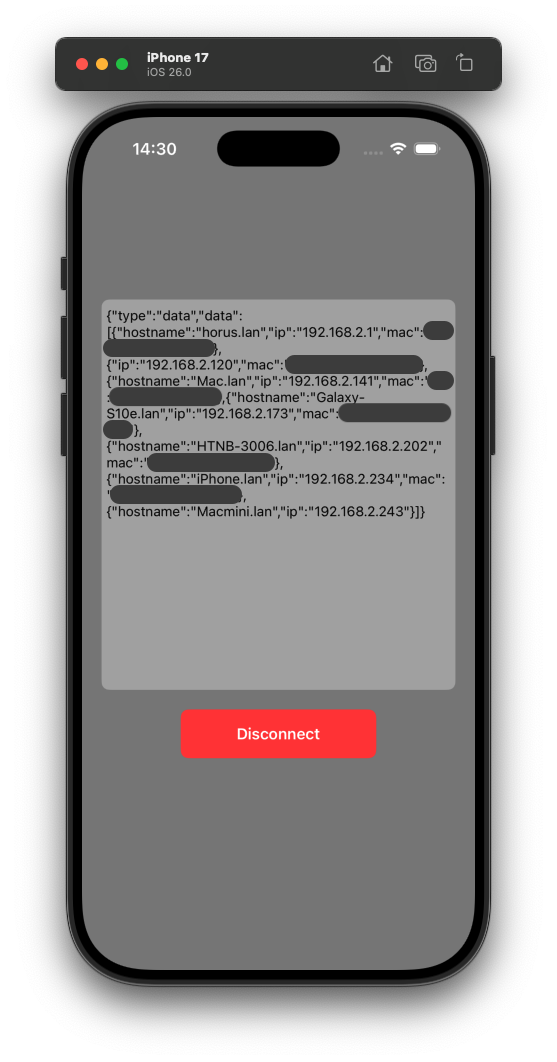
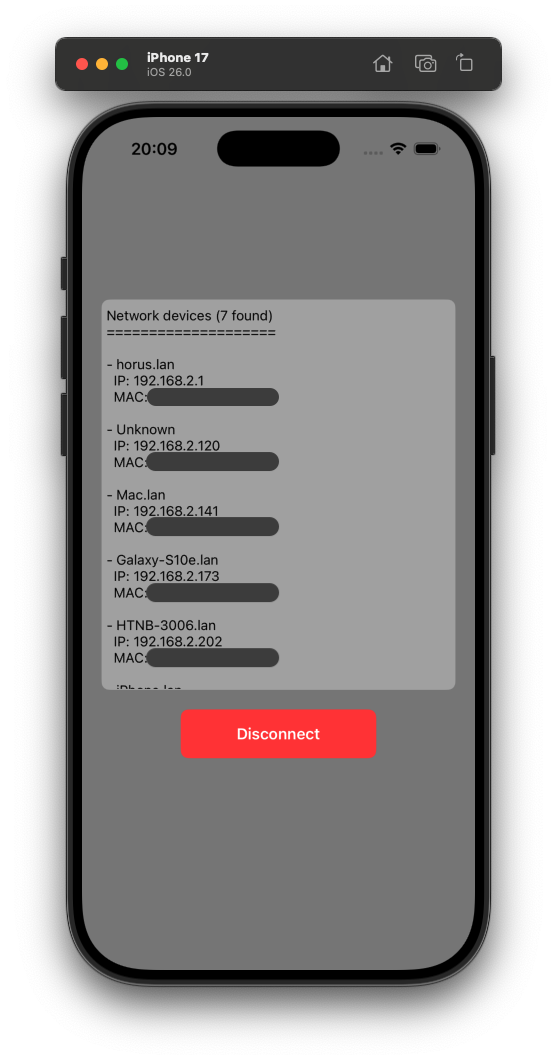
feat: format displayed device data

Changed region(s): [[0.1831, 0.2797, 0.8241, 0.6525], [0.702, 0.1243, 0.7935, 0.1554], [0.2442, 0.1243, 0.3357, 0.1554]]

diff --git a/ios-client/ios-client/ViewController.m b/ios-client/ios-client/ViewController.m
@@ -108,7 +108,44 @@
 }
 
 - (void)webSocketDidReceiveMessage:(NSString *)message {
-  self.contentTextView.text = message;
+  NSError *error = nil;
+  NSData *jsonData = [message dataUsingEncoding:NSUTF8StringEncoding];
+  NSDictionary *json = [NSJSONSerialization JSONObjectWithData:jsonData
+                                                       options:0
+                                                         error:&error];
+
+  if (error) {
+    self.contentTextView.text = [NSString
+        stringWithFormat:@"JSON parse error: %@", error.localizedDescription];
+    return;
+  }
+
+  NSString *type = json[@"type"];
+
+  if ([type isEqualToString:@"ack"]) {
+    self.contentTextView.text = json[@"message"];
+  } else if ([type isEqualToString:@"data"]) {
+    NSArray *devices = json[@"data"];
+    NSMutableString *formattedText = [[NSMutableString alloc] init];
+
+    [formattedText
+        appendFormat:@"Network devices (%lu found)\n", devices.count];
+    [formattedText appendString:@"====================\n\n"];
+
+    for (NSDictionary *device in devices) {
+      NSString *ip = device[@"ip"] ?: @"N/A";
+      NSString *mac = device[@"mac"] ?: @"N/A";
+      NSString *hostname = device[@"hostname"] ?: @"Unknown";
+
+      [formattedText appendFormat:@"- %@\n", hostname];
+      [formattedText appendFormat:@"  IP: %@\n", ip];
+      [formattedText appendFormat:@"  MAC: %@\n\n", mac];
+    }
+    self.contentTextView.text = formattedText;
+  } else {
+    self.contentTextView.text =
+        [NSString stringWithFormat:@"Received: %@", message];
+  }
 }
 
 @end
